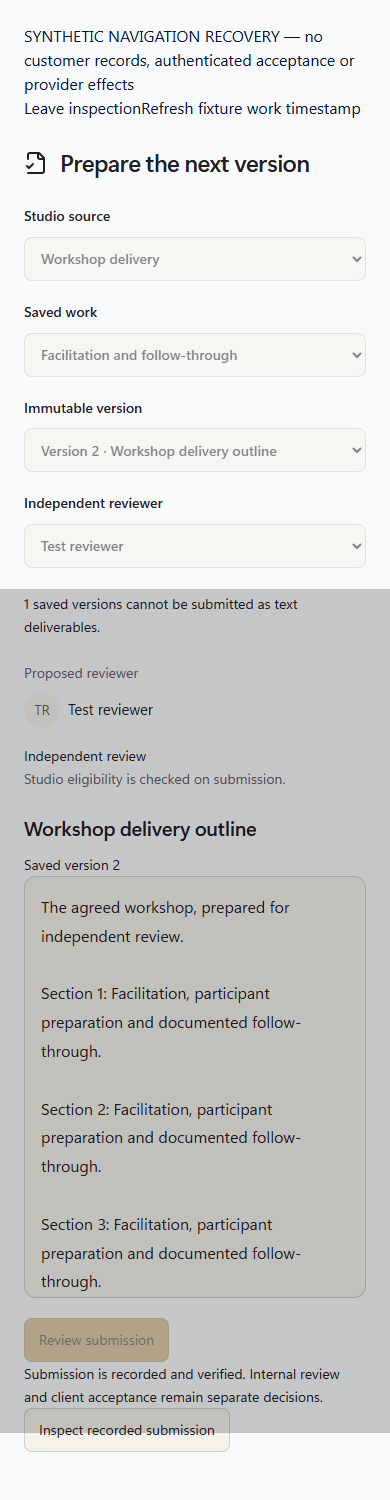
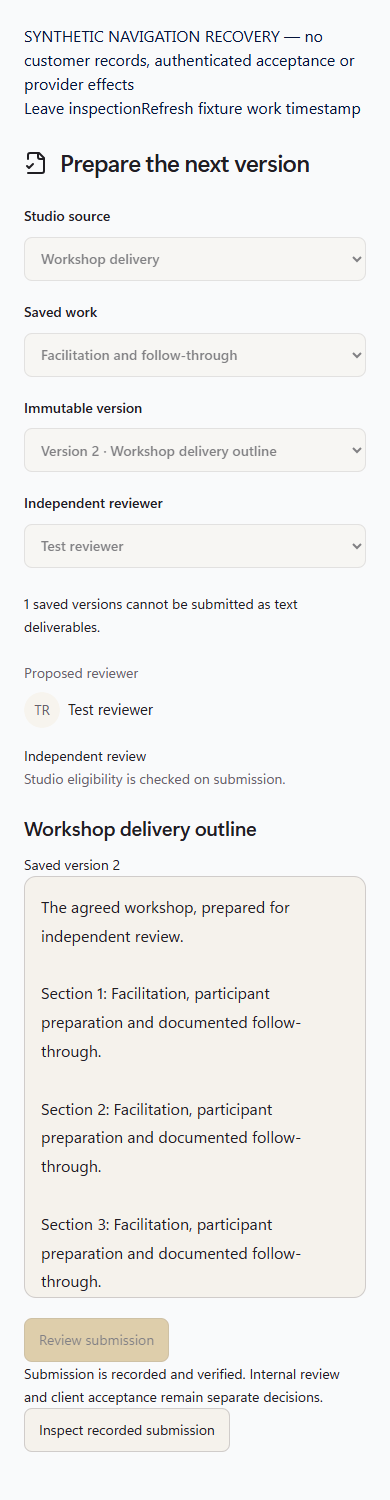
fix(operations): preserve explicit recovery clearance and exact decisions

diff --git a/src/solo/operations/OperationsStaffDeliveryReview.tsx b/src/solo/operations/OperationsStaffDeliveryReview.tsx
@@ -112,7 +112,7 @@ export function OperationsStaffDeliveryReview({scope,members,theme="dark",regist
    {artifact?<article aria-label="Exact submitted artifact"><h3>{artifact.title}</h3><div className="ops-staff-document" tabIndex={0}>{artifact.body}</div></article>:<p role="status">The exact submitted content cannot be inspected with current source access. No substitute version is shown.</p>}
    {latest.review_note&&<section aria-label="Recorded internal review"><h3>Recorded review note</h3><p className="ops-staff-note">{latest.review_note}</p></section>}
    {release&&<section aria-label="Recorded client outcome"><h3>{release.state==="accepted"?"Client acceptance recorded":release.state==="client_revision_requested"?"Client requested changes":"Awaiting client review"}</h3><p>{release.state==="accepted"?`Version ${latest.revision_no} was explicitly accepted at ${release.decision_at}.`:release.state==="client_revision_requested"?"Prepare a new immutable version, obtain a new internal review and release it again.":"Internal work is approved; the linked client's decision has not been recorded."}</p>{release.client_note&&<p className="ops-staff-note">{release.client_note}</p>}</section>}
-   {reviewing&&<div className="ops-staff-decisions">{artifact&&<><label>Review note<textarea aria-label="Review note" maxLength={4000} value={noteVisible?note:""} disabled={busy||unknown||mismatched||result?.kind==="unverified"} onChange={event=>{const text=event.target.value;setNote(text);if(!note){setNoteSource(source);noteOwner.current=key;draftSubmission.current=latest;draftScope.current={key,scope};}if(text&&draftSubmission.current&&!saveDeliveryRecovery(storage,scope,{version:1,scope:draftScope.current.scope,kind:"draft",draft:{kind:"review",submission:draftSubmission.current,note:text}}))setHint("Local recovery could not retain your review note. No decision will be sent without original-intent retention.");else setHint("");}}/></label><p>Describe what needs to change. A note is required for revisions.</p></>}<div><button type="button" disabled={locked} onClick={event=>request({kind:"review",submission:latest,decision:"revision_requested",note:note.trim()||null},event.currentTarget)}>Request changes</button><button type="button" disabled={locked} className="ops-staff-primary" onClick={event=>request({kind:"review",submission:latest,decision:"approved",note:note.trim()||null},event.currentTarget)}>Approve internally</button></div></div>}
+   {reviewing&&<div className="ops-staff-decisions">{artifact&&<><label>Review note<textarea aria-label="Review note" maxLength={4000} value={noteVisible?note:""} disabled={busy||unknown||mismatched||result?.kind==="unverified"} onChange={event=>{const text=event.target.value;if(!text){if(!clearDeliveryRecovery(storage,draftScope.current.scope)){setHint("Local recovery could not be cleared. Your original review draft is retained.");return;}setNote("");setNoteSource(null);draftSubmission.current=null;draftScope.current={key,scope};setHint("");return;}setNote(text);if(!note){setNoteSource(source);noteOwner.current=key;draftSubmission.current=latest;draftScope.current={key,scope};}if(text&&draftSubmission.current&&!saveDeliveryRecovery(storage,scope,{version:1,scope:draftScope.current.scope,kind:"draft",draft:{kind:"review",submission:draftSubmission.current,note:text}}))setHint("Local recovery could not retain your review note. No decision will be sent without original-intent retention.");else setHint("");}}/></label><p>Describe what needs to change. A note is required for revisions.</p></>}<div><button type="button" disabled={locked} onClick={event=>request({kind:"review",submission:latest,decision:"revision_requested",note:note.trim()||null},event.currentTarget)}>Request changes</button><button type="button" disabled={locked} className="ops-staff-primary" onClick={event=>request({kind:"review",submission:latest,decision:"approved",note:note.trim()||null},event.currentTarget)}>Approve internally</button></div></div>}
    {latest.state==="approved"&&!release&&<button type="button" className="ops-staff-primary" disabled={locked} onClick={event=>request({kind:"release",submission:latest},event.currentTarget)}>Release for client review</button>}
   </>}
   {note&&noteVisible&&!reviewing&&<section aria-label="Retained review note"><h3>Your retained draft</h3><p className="ops-staff-note">{note}</p><p>This draft has not been confirmed as the recorded review. Keep a copy or clear it explicitly.</p></section>}

diff --git a/src/solo/operations/OperationsStaffDeliveryReview.test.tsx b/src/solo/operations/OperationsStaffDeliveryReview.test.tsx
@@ -36,3 +36,7 @@ it("revoked source authority conceals a restored note while preserving its expli
 it("source replacement never borrows its permission to expose an older private draft",async()=>{await mount();await writeNote("Private first source note");vi.mocked(readStaffDelivery).mockResolvedValue({kind:"ready",submissions:[{...submission,id:id(12),artifact_version_id:id(13),revision_no:2,artifact_digest:"b".repeat(64)}],releases:[]});await returnToReview();expect(host.textContent).not.toContain("Private first source note");expect(host.querySelector<HTMLTextAreaElement>('textarea[aria-label="Review note"]')?.value??"").not.toContain("Private first source note");expect(button("Approve internally").disabled).toBe(true);await click("Clear review note");expect(button("Approve internally").disabled).toBe(false);expect(writeStaffDelivery).not.toHaveBeenCalled();});
 it("the parent close guard holds dirty and unconfirmed review work",async()=>{let close=()=>true;await act(async()=>root.render(<OperationsStaffDeliveryReview scope={scope} members={[]} registerCloseGuard={guard=>{close=guard;return()=>{close=()=>true;};}}/>));await writeNote("Retain before leaving");await act(async()=>expect(close()).toBe(false));await click("Clear review note");expect(close()).toBe(true);vi.mocked(writeStaffDelivery).mockResolvedValue({kind:"unverified"});await click("Approve internally");await click("Confirm internal approval");await act(async()=>expect(close()).toBe(false));});
 it("blocked intent retention refuses before an internal decision request",async()=>{const blocked={getItem:()=>null,setItem:()=>{throw Error("blocked");},removeItem:()=>{}};await act(async()=>root.render(<OperationsStaffDeliveryReview scope={scope} members={[]} recoveryStorage={blocked}/>));await click("Approve internally");await click("Confirm internal approval");expect(writeStaffDelivery).not.toHaveBeenCalled();expect(host.textContent).toContain("recovery");});
+
+it("deleting the whole review note cannot resurrect it after departure and return",async()=>{await mount();await writeNote("Delete this original private note");await writeNote("");await returnToReview();expect(host.querySelector<HTMLTextAreaElement>('textarea[aria-label="Review note"]')?.value).toBe("");expect(host.textContent).not.toContain("Delete this original private note");expect(writeStaffDelivery).not.toHaveBeenCalled();});
+
+it("a failed draft clearance keeps the visible note and departure guard",async()=>{const values=new Map<string,string>(),storage={getItem:(k:string)=>values.get(k)??null,setItem:(k:string,v:string)=>{values.set(k,v);},removeItem:()=>{throw Error("blocked");}};let close=()=>true;await act(async()=>root.render(<OperationsStaffDeliveryReview scope={scope} members={[]} recoveryStorage={storage} registerCloseGuard={guard=>{close=guard;return()=>{close=()=>true;};}}/>));await writeNote("Keep this draft if clearance fails");await writeNote("");expect(host.querySelector<HTMLTextAreaElement>('textarea[aria-label="Review note"]')?.value).toBe("Keep this draft if clearance fails");expect(host.textContent).toContain("could not be cleared");await act(async()=>expect(close()).toBe(false));expect(writeStaffDelivery).not.toHaveBeenCalled();});

diff --git a/src/solo/operations/operations-delivery-local-recovery.test.ts b/src/solo/operations/operations-delivery-local-recovery.test.ts
@@ -21,3 +21,5 @@ it("foreign, self-reviewed and unbounded review-note metadata refuses before sto
 
 it("later drafts and different operations cannot overwrite a retained uncertain attempt",()=>{const s=storage();expect(saveDeliveryRecovery(s,scope,attempt)).toBe(true);expect(saveDeliveryRecovery(s,scope,draft)).toBe(false);expect(saveDeliveryRecovery(s,scope,{...attempt,action:{...attempt.action,artifactVersionId:id(20)}} as DeliveryRecovery)).toBe(false);expect(readDeliveryRecovery(s,scope)).toEqual({kind:"retained",recovery:attempt});});
 it("clearing an uncertain attempt requires the exact original intent, never an unrelated draft",()=>{const s=storage();saveDeliveryRecovery(s,scope,attempt);expect(clearDeliveryRecovery(s,scope)).toBe(false);expect(clearDeliveryRecovery(s,scope,draft)).toBe(false);expect(readDeliveryRecovery(s,scope)).toEqual({kind:"retained",recovery:attempt});expect(clearDeliveryRecovery(s,scope,attempt)).toBe(true);expect(readDeliveryRecovery(s,scope)).toEqual({kind:"absent"});});
+
+it("array/object review decisions are unavailable rather than coerced into executable intent",()=>{const s=storage(),action={kind:"review",submission,decision:"approved",note:null};for(const decision of[["approved"],{value:"approved"},12]){const r={version:1,scope,kind:"attempt",action:{...action,decision}} as unknown as DeliveryRecovery;expect(saveDeliveryRecovery(s,scope,r)).toBe(false);s.values.set(deliveryRecoveryKey(scope)!,JSON.stringify(r));expect(readDeliveryRecovery(s,scope)).toEqual({kind:"unavailable"});s.values.clear();}});

diff --git a/src/solo/operations/operations-delivery-local-recovery.ts b/src/solo/operations/operations-delivery-local-recovery.ts
@@ -36,7 +36,7 @@ function parseAction(value:unknown,scope:StaffDeliveryScope):StaffDeliveryAction
   {kind:"submit",artifactVersionId:r.artifactVersionId,reviewerId:r.reviewerId,expectedRevisionNo:Number(r.expectedRevisionNo)}:null;
  const row=submission(r.submission,scope);if(!row)return null;
  if(r.kind==="release")return row.state==="approved"?{kind:"release",submission:row}:null;
- if(r.kind!=="review"||row.state!=="in_review"||row.reviewer_user_id!==scope.actorId||!["approved","revision_requested"].includes(String(r.decision))||!(r.note===null||typeof r.note==="string"&&r.note.length<=4000)||r.decision==="revision_requested"&&!(typeof r.note==="string"&&r.note.trim()))return null;
+ if(r.kind!=="review"||row.state!=="in_review"||row.reviewer_user_id!==scope.actorId||typeof r.decision!=="string"||!["approved","revision_requested"].includes(r.decision)||!(r.note===null||typeof r.note==="string"&&r.note.length<=4000)||r.decision==="revision_requested"&&!(typeof r.note==="string"&&r.note.trim()))return null;
  return{kind:"review",submission:row,decision:r.decision as "approved"|"revision_requested",note:r.note as string|null};
 }
 function parseRecovery(value:unknown,current:StaffDeliveryScope):DeliveryRecovery|null{

diff --git a/docs/evidence/ui-delivery/operations-staff-navigation-recovery.md b/docs/evidence/ui-delivery/operations-staff-navigation-recovery.md
@@ -7,9 +7,9 @@ MATERIAL_FLOW_CHANGE: YES: existing unmounted preparation/review sources retain 
 FLOW_PROTOTYPE: PASS: approved Operations V3 and owner implementation authorization; real component drive uses explicitly synthetic records and callers.
 PURPOSE_AUDIENCE_PRIMARY_ACTION: PASS: staff return to their work without losing an original note or replaying an uncertain submission/review/client release.
 VISUAL_DIRECTION: PASS: approved Obsidian/Mineral, connected recorded-event progression, canonical inline people/photos, readable work document and scoped champagne confirmation/indigo focus.
-AUTOMATED_EVIDENCE: PASS:111 focused tests (18 preparation,17 review,14 recovery,38 staff,15 source,9 discovery), failing-first four preparation/six review/two replacement-clearance regressions, scoped lint PASS.
+AUTOMATED_EVIDENCE: PASS:114 focused tests (18 preparation,19 review,15 recovery,38 staff,15 source,9 discovery), failing-first four preparation/six review/two replacement-clearance regressions, scoped lint PASS.
 STATIC_EVIDENCE: PASS: minimal versioned sessionStorage UI metadata, original scope/CAS, strict existing parser projections, explicit no-overwrite/no-clear unknown-intent checks; no artifact body, profile copy, authority, API executor, route or domain store added. Independent final review still owed.
-RENDERED_EVIDENCE: PASS: assets/operations-v3/staff-navigation-recovery/verification.json records12 both-theme phone actual-component unmount/remount cases/errors0; native zoom report records8 genuine signed-out Chrome200/400 captures/errors0. Isolated sources, not canonical shell/PAIGE.
+RENDERED_EVIDENCE: PASS: assets/operations-v3/staff-navigation-recovery/verification.json records14 both-theme phone actual-component unmount/remount cases/errors0; native zoom report records8 genuine signed-out Chrome200/400 captures/errors0. Isolated sources, not canonical shell/PAIGE.
 BEHAVIORAL_EVIDENCE: PASS: actual caller/readback with explicit synthetic ports, original CAS after changed visible timestamp, uncertain no replay, authorized same-source draft recovery, revoked/replaced-source concealment and exact-intent retention/clearance.
 AUTHENTICATED_RUNTIME: UNVERIFIED: no legitimate customer or canonical QA client session exercised. ANT-21/#1832/ANT-7/ANT-86 remains the authorized queue.
 KEYBOARD_FOCUS: PASS:8 native zoom cases scroll the real document using PageDown, invoke confirmation using keyboard, cancel with zero writer and restore focus. Parent close/account/unload guards covered locally; production route/back integration still owed.
@@ -35,7 +35,7 @@ ACCEPTANCE_CRITERIA: Original draft and unknown intent survive navigation while 
 MOTION_PURPOSE: NONE: no authored motion; only existing shared confirmation state transitions.
 PROTECTED_SEAMS: Operations-owned source only; shared Clients/router/shell/Spine/Chat/executor/QA/provider contracts untouched.
 
-INTERNAL_BUILD_IDENTITY: source candidate recorded in PR; deployment=NOT_DEPLOYED; environment=development; migrations=NOT_APPLICABLE; edge=NOT_APPLICABLE; evidence=docs/delivery/operations-client-review-packet.md
+INTERNAL_BUILD_IDENTITY: supporting source head c43125b8bbb1474646381d34b54d671e5fd6a620; deployment=NOT_DEPLOYED; environment=development; migrations=NOT_APPLICABLE; edge=NOT_APPLICABLE; evidence=docs/delivery/operations-client-review-packet.md
 RELEASE_CHANNEL: development: unmounted recovery source, no mounted customer reachability.
 RELEASE_CLASSIFICATION: internal-only: original-scope UI recovery; production mount/authenticated acceptance remain owed.
 CUSTOMER_RELEASE_IDENTITY: none: authenticated customer outcome not established.
@@ -45,4 +45,4 @@ RELEASE_RECOVERY: position=reviewed forward correction and original-scope readba
 
 
 
-Independent non-author source and bounded design review are required before release. No additional aesthetic pass or new design direction is proposed. Review, CI, merge, source deployment and authenticated acceptance remain separate evidence states.
+Initial non-author source review NOT COMPLETE found malformed decision coercion and deleted-note resurrection; meaningful regressions reproduced both plus failed-clearance preservation (3FAIL/31PASS). One combined correction requires literal supported string decisions, clears deleted drafts with verified scoped absence or preserves the visible note/guard on storage refusal.114 focused tests/scoped lint PASS. Initial visual packet required recapture: one gray closing-overlay artifact was invalid; settled overlay-node absence is now asserted and the complete14-case packet is recaptured. Initial UI gate114925464846 FAIL missing exact build SHA; supporting c43125b8bbb1474646381d34b54d671e5fd6a620 is now recorded and grammar check PASS without changing the gate. Final independent source and bounded design confirmation are required before release. No additional aesthetic pass or new design direction is proposed. Review, CI, merge, source deployment and authenticated acceptance remain separate evidence states.

diff --git a/docs/delivery/operations-client-review-packet.md b/docs/delivery/operations-client-review-packet.md
@@ -161,3 +161,9 @@ Preparation remount regressions reproduced4FAIL/14PASS before correction. Review
 The real components/caller parsers render through explicit synthetic ports in assets/operations-v3/staff-navigation-recovery:12 both-theme390px genuine React unmount/remount cases PASS/errors0, original work timestamp preserved, unknown submission/review remains locked, source revocation/replacement conceals prior notes, no automatic replay. Full canonical Work/router/back/PAIGE and authenticated staff/client acceptance remain UNVERIFIED. Shared Client route/Spine/Chat/QA boundaries unchanged. This source is still unmounted; the next owned Work integration owes every actual parent/route exit, rather than using the fixture departure control as production navigation proof.
 
 New native reflow confirmation:8 genuine signed-out Chrome200/400percent captures with DPR2/4, physical viewport screenshots, scrollable exact content/confirmation, keyboard cancel/no-write/focus return PASS/errors0. This is isolated recovery-source proof, not full Work/shell/PAIGE/authenticated acceptance.
+
+### Independent recovery review / single correction batch
+
+Initial c43125b8bbb1474646381d34b54d671e5fd6a620 source review NOT COMPLETE: String(decision) admitted an array despite typed action output; deleting all note text left its old stored draft and removed the clear control. Failing-first exact array/object/deleted-note/failed-clearance tests reproduced3FAIL/31PASS. One correction requires literal supported string decisions and verifies scoped draft clearance before removing its visible note/guard; failures retain note and explanation. Final focused114PASS (18preparation+19review+15recovery+38staff+15source+9discovery), scoped lint PASS.
+
+Visual initial disposition recapture, not SHIP: one phone full-page capture included a lingering closing-overlay artifact. The runner now asserts overlay disposal before every complete capture. The settled14-case both-theme packet (including delete-all/real unmount/return) PASS/errors0;8 earlier nativeChrome200/400 captures remain applicable because their preparation geometry and scored interactions did not change. No additional aesthetic pass. UI gate114925464846 initially FAIL because exact supporting build SHA was omitted; the source candidate c43125b8bbb1474646381d34b54d671e5fd6a620 is recorded and local unchanged gate grammar PASS. Final independent source/visual recheck and fresh exact-head CI owed. Source remains unmounted, full Operations PARTIAL.

diff --git a/assets/operations-v3/staff-navigation-recovery/README.md b/assets/operations-v3/staff-navigation-recovery/README.md
@@ -2,6 +2,8 @@
 
 Actual Operations preparation/review components, existing caller parsers and scoped ephemeral UI recovery. No production imports, customer accounts/records, credentials, provider effects, permanent test account or INT-346 activation. Fixture-only buttons force real React unmount/remount and refresh the visible work timestamp; they do not represent a production navigation bypass.
 
-Run `node assets/operations-v3/staff-navigation-recovery/server.mjs 8822`, then `node assets/operations-v3/staff-navigation-recovery/verify.cjs` with the declared Playwright dependency and native signed-out Chrome. Twelve both-theme phone return/source-refusal/replacement/unknown cases verify original CAS, real readback, concealed private notes and zero automatic replay. Full canonical shell/PAIGE/route/back and authenticated staff/client acceptance remain owed before Work mounting.
+Run `node assets/operations-v3/staff-navigation-recovery/server.mjs 8822`, then `node assets/operations-v3/staff-navigation-recovery/verify.cjs` with the declared Playwright dependency and native signed-out Chrome. Fourteen both-theme phone return/source-refusal/replacement/unknown cases verify original CAS, real readback, concealed private notes and zero automatic replay. Full canonical shell/PAIGE/route/back and authenticated staff/client acceptance remain owed before Work mounting.
 
 Native zoom: `node assets/operations-v3/staff-navigation-recovery/verify-zoom.cjs` with OPERATIONS_PREVIEW_URL=http://127.0.0.1:8822. Eight true Chrome200/400percent cases, owned disposable signed-out profiles, physical viewport captures; no deviceScaleFactor substitution.
+
+Initial capture light-preparation-draft was invalid because its closed confirmation overlay had not disposed. The current runner asserts actual overlay node absence before capture; the full14-case packet is settled and recaptured. Deleted-note return is now verified.
